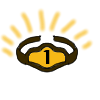
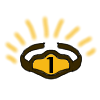
feat: add motion to changing awards

diff --git a/src/graphics/Index.tsx b/src/graphics/Index.tsx
@@ -3,6 +3,7 @@ import TfallSimpleStats from './components/TfallSimpleStats';
 import { PlayerData } from '../types/playerdata';
 import { useReplicant } from '@nodecg/react-hooks';
 import { getValue } from '../types/helper';
+import {motion} from 'framer-motion';
 
 import pos01 from "./assets/awards/pos-01.png"
 import pos02 from "./assets/awards/pos-02.png"
@@ -86,6 +87,12 @@ export function Index() {
 		setAwards(newRewards)
 	}, [order, setAwards, awardsType])
 
+	const spring = {
+		type: "spring",
+		damping: 25,
+		stiffness: 120,
+	}
+
 	return (
 		<>
 		<div style={{
@@ -108,9 +115,10 @@ export function Index() {
 				justifyContent: "space-around",
             	width: 1817,
             	height: 70,
-				padding: "0 80px",
+				padding: "0 150px",
+				marginTop: -6,
 			}}>
-				{awards.map((award) => <img src={award.asset} key={award.id}/>)}
+				{awards.map((award) => <motion.img src={award.asset} layout transition={spring} key={award.id}/>)}
 			</div>
 		</>
 	);
